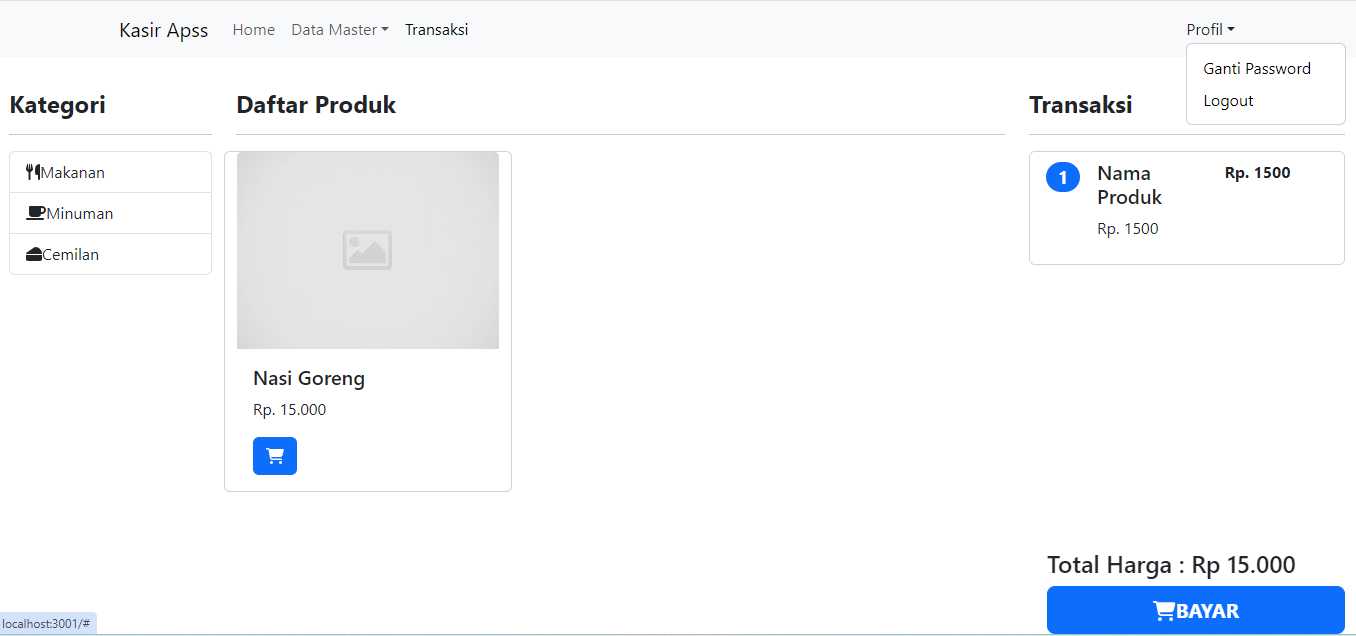
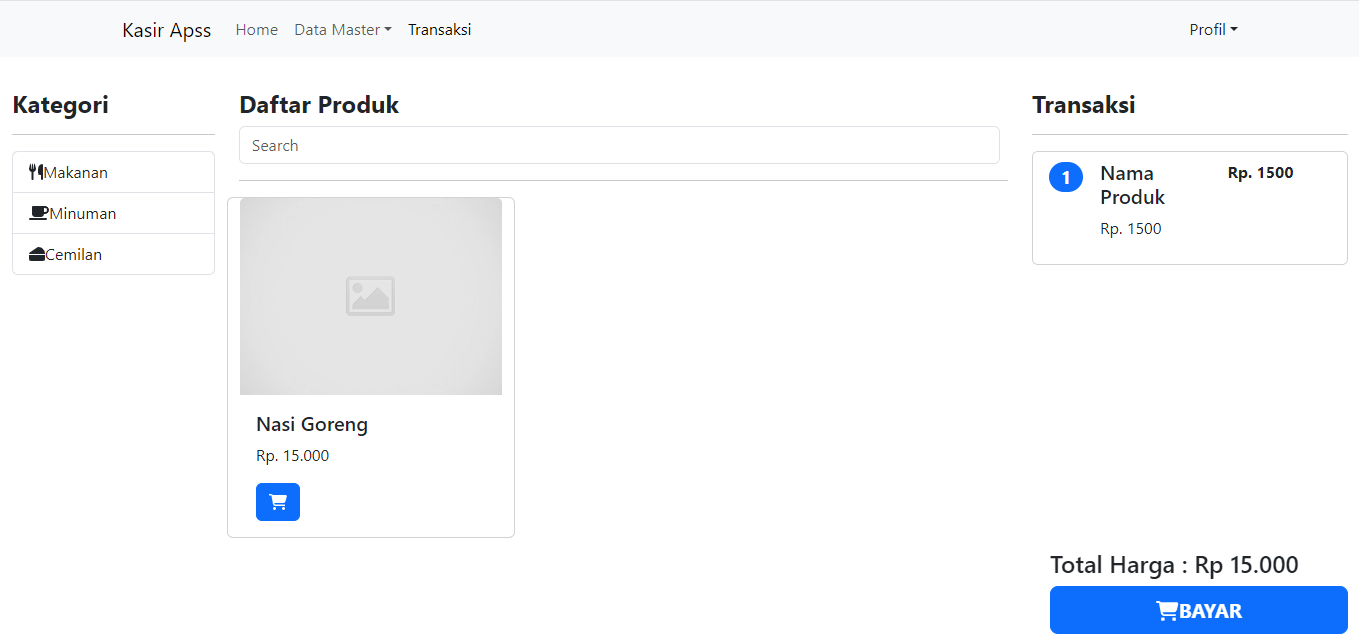
komit1

diff --git a/src/pages/Home.js b/src/pages/Home.js
@@ -1,6 +1,6 @@
 import { FontAwesomeIcon } from "@fortawesome/react-fontawesome";
 import React, { Component } from "react";
-import { Col, ListGroup, Row, Card, Button, Badge } from "react-bootstrap";
+import { Col, ListGroup, Row, Card, Button, Badge, Form } from "react-bootstrap";
 import {
   faCartShopping,
   faUtensils,
@@ -39,6 +39,14 @@ export default class Home extends Component {
             <h4>
               <strong>Daftar Produk</strong>
             </h4>
+            <Form className="d-flex">
+            <Form.Control
+              type="search"
+              placeholder="Search"
+              className="me-2"
+              aria-label="Cari Produk"
+            />
+          </Form>
             <hr />
             <Row className="overflow-auto menu">
               <Card style={{ width: "18rem" }}>
